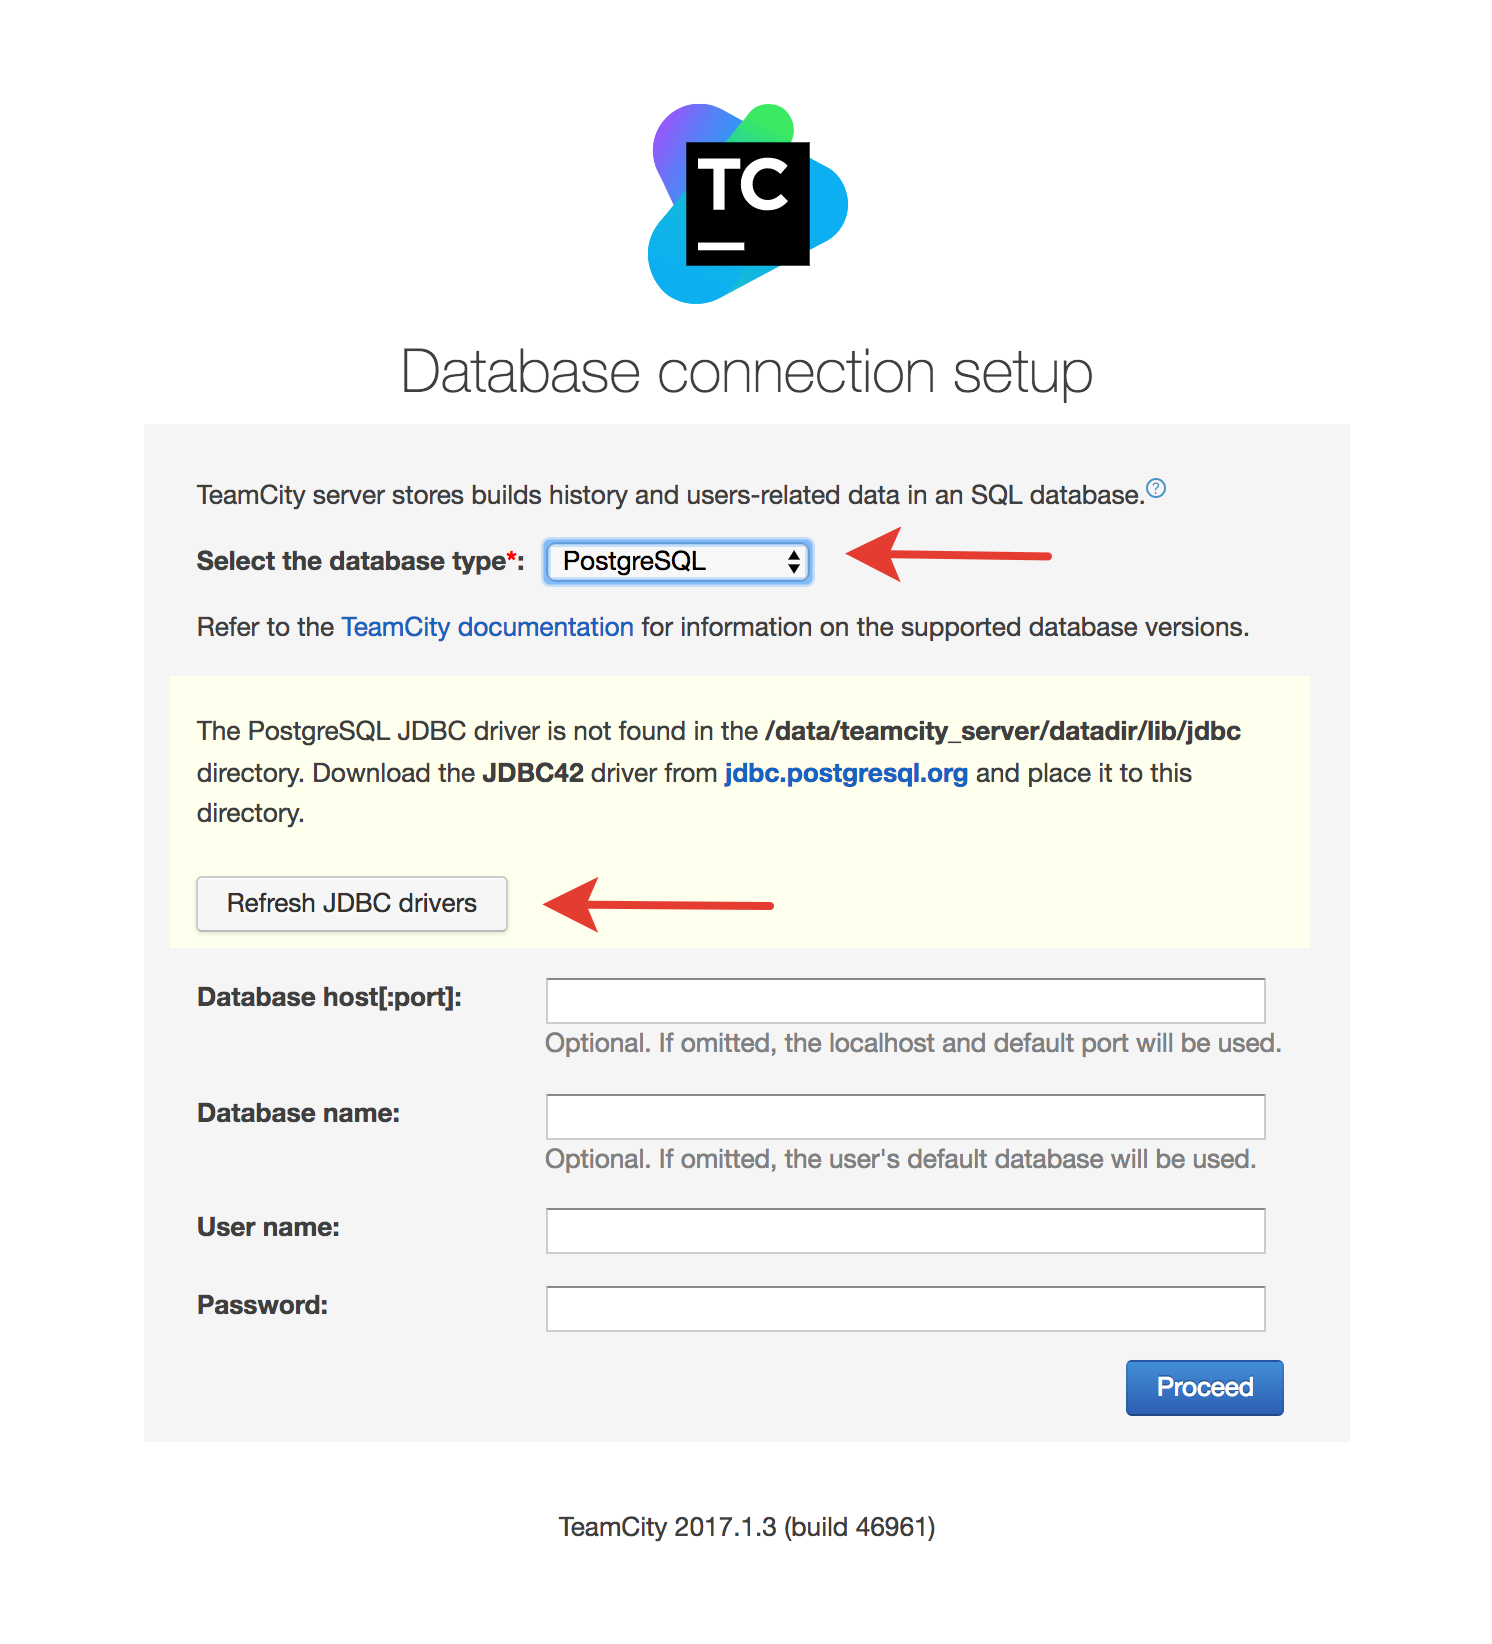
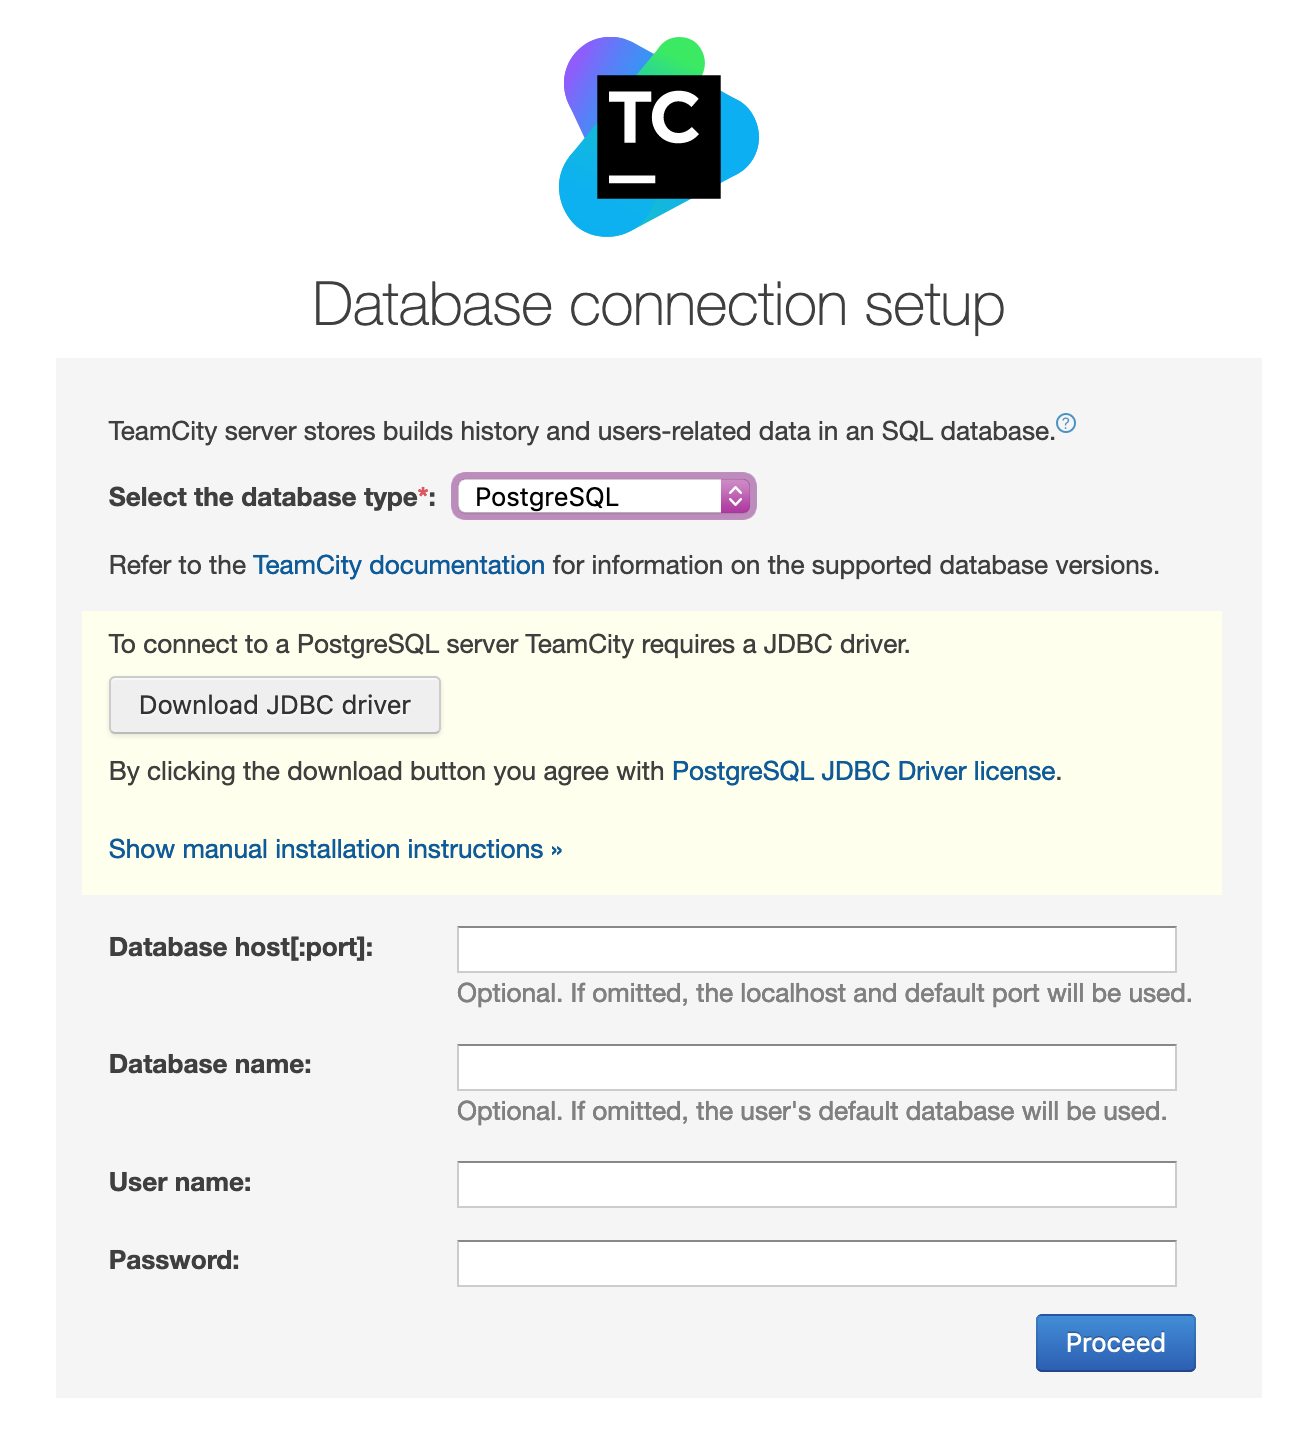
Update README, cleanup

diff --git a/README.md b/README.md
@@ -2,26 +2,32 @@
 Compose to create working [TeamCity](https://www.jetbrains.com/teamcity/) server with PostgreSQL and Agents
 
 ![state](https://img.shields.io/badge/state-stable-brightgreen.svg)
-![ssl](https://img.shields.io/badge/SSL-OK-brightgreen.svg)
-![jdbc version](https://img.shields.io/badge/jdbc%20postgresql%20version-42.2.4-brightgreen.svg)
+![ssl](https://img.shields.io/badge/HTTPs-traefik-brightgreen.svg)
 
 **This configuration use only official images:**
 
 [teamcity server](https://hub.docker.com/r/jetbrains/teamcity-server/),
 [teamcity agent](https://hub.docker.com/r/jetbrains/teamcity-minimal-agent/),
-[postgres](https://hub.docker.com/_/postgres/)
+[postgres](https://hub.docker.com/_/postgres/),
+[traefik](https://hub.docker.com/_/traefik)
 
 # How to use
 
 Clone this repository or download the zip.
 
 ```
-git clone https://github.com/Egregors/teamcity-docker-compose.git
+git clone https://github.com/egregors/teamcity-docker-compose.git
 ```
 
 ## Configuration
 
-First of all, you should set your Postgres username and password variables in `env.example` and rename `env.example` to `.env`
+All you need to do it is just to set few ENV variables in the `example.env` file.
+
+Set your Postgres username and password in `env.example` 
+
+Set your `VIRTUAL_HOST` and ACME credential (`LETSENCRYPT_HOST`, `LETSENCRYPT_EMAIL`)
+
+**After all rename `env.example` to `.env`**
 
 Don't push `.env` file in public repositories!
 
@@ -30,47 +36,39 @@ JetBrains [recommendations](https://confluence.jetbrains.com/pages/viewpage.acti
 
 ### HTTPs support
 
-To add HTTPs nginx-proxy with Let's Encrypt certificates (see https://github.com/JrCs/docker-letsencrypt-nginx-proxy-companion) just set your domain name and email in `.env` file:
+HTTPs entry point is enabled by default thanks to [traefik](https://traefik.io/)
 
-```
-POSTGRES_PASSWORD=mysecretpass
-POSTGRES_USER=postgresuser
-
-SERVER_URL=http://server:8111
-
-# set your domain name and email!
-VIRTUAL_HOST=ci.example.com
-LETSENCRYPT_HOST=ci.example.com
-LETSENCRYPT_EMAIL=username@example.ru
-```
-
-If you don't need HTTPs support – remove `nginx`, `nginx-proxy` and `letsencrypt-nginx-proxy-companion` services 
-from your docker-compose file (like in `docker-compose-without-ssl.yml)`
+If you don't need HTTPs support – use `docker-compose-nossl.yml`
 
 ## Build and setup
 
 Next, build the images:
+`make build`
+
+or
 
 ```
-cd teamcity-docker-compose
-docker-compose build
+docker-compose -f docker-compose.yml build
 ```
 
-Now you can start up the service and continue configuring settings in Web Interface:
+Now you may start up the service and continue configuring settings in Web Interface:
+
+`make uplog`
+
+or
 
 ```
-docker-compose up
+docker-compose -f docker-compose.yml up -d && docker-compose -f docker-compose.yml logs -f -t --tail=10
 ```
 
-After initialisation Web Interface will be available on `https://yourdockerhost/` (with HTTPs support) or `http://yourdockerhost:8111/`
+After initialisation Web Interface will be available on `https://yourdockerhost/`
 
 
 ### Setup DB
 
-Open `https://yourdockerhost/` or `http://yourdockerhost:8111/`
+Open `https://yourdockerhost/`
 
-Set PostgreSQL as database type, upload [JDBC driver](https://jdbc.postgresql.org/download/postgresql-42.2.4.jar) into
- `/opt/teamcity/data/lib/jdbc/` then click «Refresh JDBC drivers»
+Set PostgreSQL as database type, download `JDBC driver`
 
 ![Alt text](raw/img/1.png?raw=true)
 
@@ -82,11 +80,11 @@ Authorize your Agent:
 
 ![Alt text](raw/img/3.png?raw=true)
 
-Done, TeamCity basically ready to work.
+Done, TeamCity ready to work.
 
 ## Scaling
 
-Scaling you workers (agents) supported as well. Just use `docker-compose scale` command:
+Scaling your workers (agents) supported as well. Just use `docker-compose scale` command:
 
 ```
 docker-compose scale teamcity-agent=3
@@ -104,6 +102,14 @@ or [restore](https://confluence.jetbrains.com/display/TCD10/Restoring+TeamCity+D
 
 If you see a notice that a new version is available, you may update your TeamCity that way:
 
+use `make` (select your compose file name in Makefile, by default it is `docker-compose.yml`)
+
+```
+make update
+```
+
+or
+
 ```
 # stop and remove old containers
 docker-compose stop
@@ -114,12 +120,6 @@ docker-compose build --pull --no-cache
 
 # create and up new containers
 docker-compose up -d
-```
-
-or use `make` (select your compose file name in Makefile, by default it is `docker-compose.yml`)
-
-```
-make update
 ```
 
 After an update, you need to reauthorize your agents.
@@ -138,7 +138,7 @@ teamcity-server_1                    | [TeamCity] Administrator can login from w
 
 ## Platform-specific agents
 
-You can use our preconfigured custom agents with already installed necessary dependencies
+You can use my preconfigured custom agents with already installed necessary dependencies
 
 ### Python 3 | Node.js 11, yarn 1.15
 

diff --git a/CHANGELOG.md b/CHANGELOG.md
@@ -90,4 +90,4 @@ CHANGELOG
 * Move from nginx to traefik
 * SSL by almost zero config (you should only setup .env)
 * Removed redundant composes
-* 
+* README update
